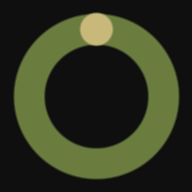
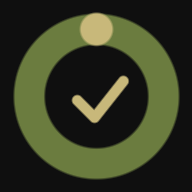
colors changed

Changed region(s): [[0.375, 0.375, 0.6875, 0.6562]]

diff --git a/src/App.jsx b/src/App.jsx
@@ -66,8 +66,8 @@ export default function App() {
               style={{ background: 'none', border: 'none', cursor: 'pointer', padding: '4px 0', display: 'flex', alignItems: 'center' }}
             >
               <svg width="22" height="22" viewBox="0 0 24 24" fill="none">
-                <circle cx="12" cy="12" r="3" stroke={T.green} strokeWidth="1.8" />
-                <path d="M19.4 15a1.65 1.65 0 00.33 1.82l.06.06a2 2 0 010 2.83 2 2 0 01-2.83 0l-.06-.06a1.65 1.65 0 00-1.82-.33 1.65 1.65 0 00-1 1.51V21a2 2 0 01-4 0v-.09A1.65 1.65 0 009 19.4a1.65 1.65 0 00-1.82.33l-.06.06a2 2 0 01-2.83-2.83l.06-.06A1.65 1.65 0 004.68 15a1.65 1.65 0 00-1.51-1H3a2 2 0 010-4h.09A1.65 1.65 0 004.6 9a1.65 1.65 0 00-.33-1.82l-.06-.06a2 2 0 012.83-2.83l.06.06A1.65 1.65 0 009 4.68a1.65 1.65 0 001-1.51V3a2 2 0 014 0v.09a1.65 1.65 0 001 1.51 1.65 1.65 0 001.82-.33l.06-.06a2 2 0 012.83 2.83l-.06.06A1.65 1.65 0 0019.4 9a1.65 1.65 0 001.51 1H21a2 2 0 010 4h-.09a1.65 1.65 0 00-1.51 1z" stroke={T.green} strokeWidth="1.8" strokeLinecap="round" strokeLinejoin="round" />
+                <circle cx="12" cy="12" r="3" stroke={T.olive} strokeWidth="1.8" />
+                <path d="M19.4 15a1.65 1.65 0 00.33 1.82l.06.06a2 2 0 010 2.83 2 2 0 01-2.83 0l-.06-.06a1.65 1.65 0 00-1.82-.33 1.65 1.65 0 00-1 1.51V21a2 2 0 01-4 0v-.09A1.65 1.65 0 009 19.4a1.65 1.65 0 00-1.82.33l-.06.06a2 2 0 01-2.83-2.83l.06-.06A1.65 1.65 0 004.68 15a1.65 1.65 0 00-1.51-1H3a2 2 0 010-4h.09A1.65 1.65 0 004.6 9a1.65 1.65 0 00-.33-1.82l-.06-.06a2 2 0 012.83-2.83l.06.06A1.65 1.65 0 009 4.68a1.65 1.65 0 001-1.51V3a2 2 0 014 0v.09a1.65 1.65 0 001 1.51 1.65 1.65 0 001.82-.33l.06-.06a2 2 0 012.83 2.83l-.06.06A1.65 1.65 0 0019.4 9a1.65 1.65 0 001.51 1H21a2 2 0 010 4h-.09a1.65 1.65 0 00-1.51 1z" stroke={T.olive} strokeWidth="1.8" strokeLinecap="round" strokeLinejoin="round" />
               </svg>
             </button>
           </div>
@@ -102,7 +102,6 @@ export default function App() {
             position: 'fixed', inset: 0, zIndex: 60,
             background: T.bg,
             display: 'flex', flexDirection: 'column',
-            maxWidth: 430, left: '50%', transform: 'translateX(-50%)',
           }}>
             <div style={{
               display: 'flex', alignItems: 'center', gap: 14,